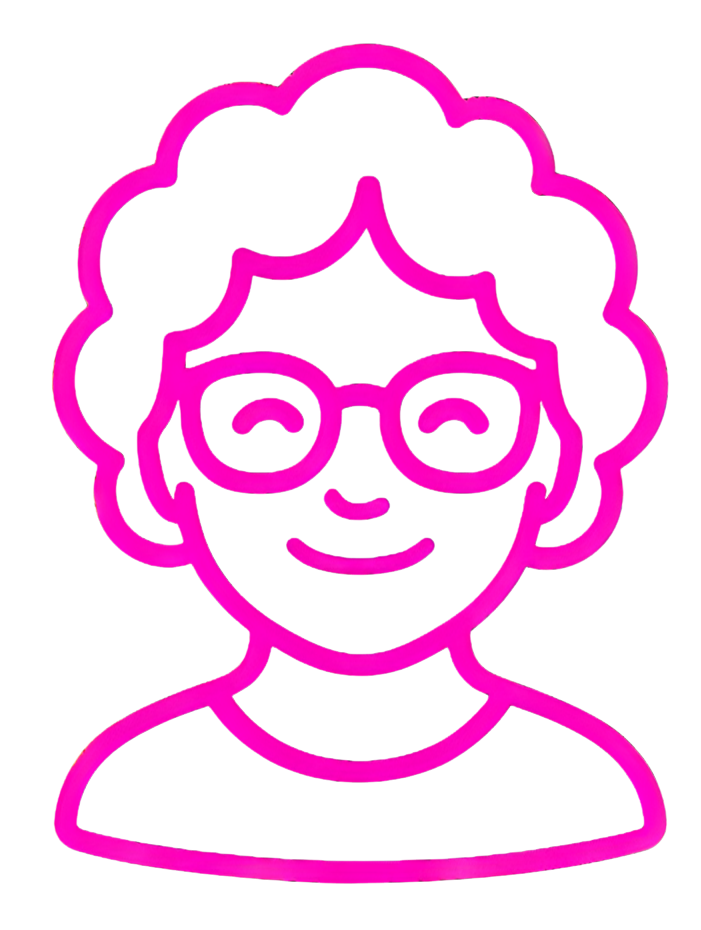
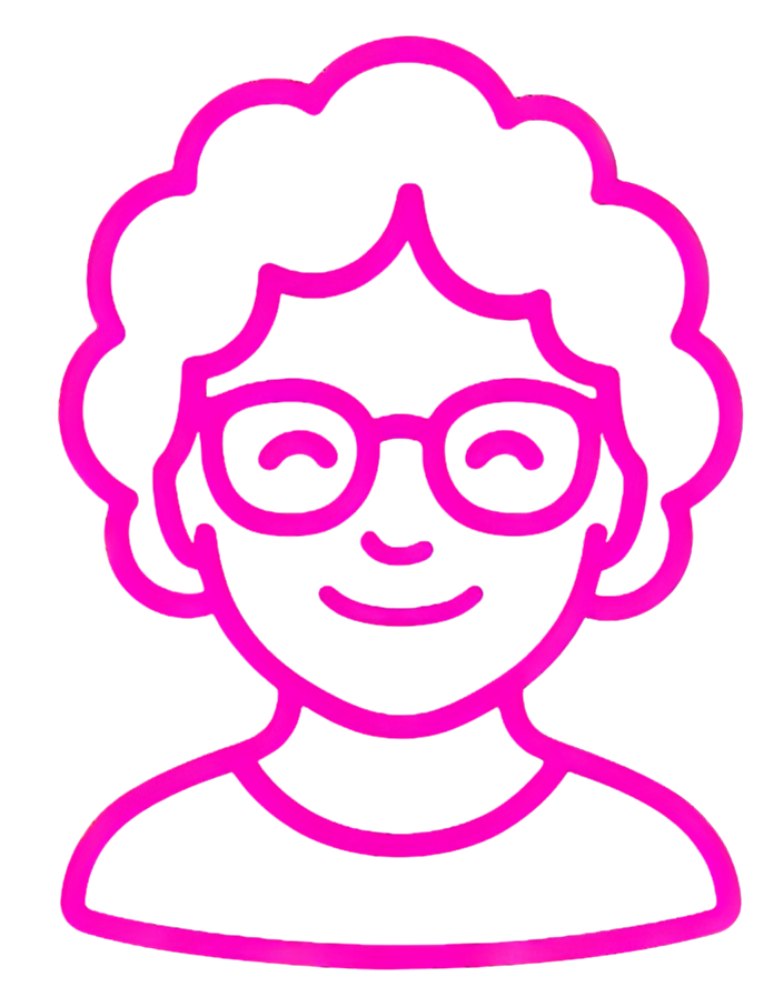
put savta back

diff --git a/pages/app/upload.vue b/pages/app/upload.vue
@@ -327,11 +327,11 @@ const loadRecentAssets = async () => {
     recentAssets.value = assets
   } catch (error) {
     toast.add({
-      severity: 'error',
-      summary: 'Error',
-      detail: 'Failed to load recent assets',
-      life: 3000
-    })
+        severity: 'error',
+        summary: 'Error',
+        detail: 'Failed to load recent assets',
+        life: 3000
+      })
   }
 }
 
@@ -353,11 +353,11 @@ const uploadFiles = async (files) => {
   for (const file of files) {
     if (file.size > 10 * 1024 * 1024) { // 10MB limit
       toast.add({
-        severity: 'error',
-        summary: 'File Too Large',
-        detail: `${file.name} is too large. Maximum size is 10MB.`,
-        life: 3000
-      })
+          severity: 'error',
+          summary: 'File Too Large',
+          detail: `${file.name} is too large. Maximum size is 10MB.`,
+          life: 3000
+        })
       continue
     }
 
@@ -397,11 +397,11 @@ const uploadFiles = async (files) => {
       uploadFile.processing = false
       
       toast.add({
-        severity: 'success',
-        summary: 'Upload Complete',
-        detail: `${file.name} uploaded and processed successfully`,
-        life: 3000
-      })
+          severity: 'success',
+          summary: 'Upload Complete',
+          detail: `${file.name} uploaded and processed successfully`,
+          life: 3000
+        })
       // Remove file from uploadingFiles immediately
       uploadingFiles.value = uploadingFiles.value.filter(f => f.id !== uploadFile.id)
       await loadRecentAssets()
@@ -412,11 +412,11 @@ const uploadFiles = async (files) => {
       uploadFile.processing = false
       
       toast.add({
-        severity: 'error',
-        summary: 'Upload Failed',
-        detail: `Failed to upload ${file.name}: ${error.message}`,
-        life: 3000
-      })
+          severity: 'error',
+          summary: 'Upload Failed',
+          detail: `Failed to upload ${file.name}: ${error.message}`,
+          life: 3000
+        })
       // Remove file from uploadingFiles immediately on error
       uploadingFiles.value = uploadingFiles.value.filter(f => f.id !== uploadFile.id)
     }
@@ -448,11 +448,11 @@ const submitTextStory = async () => {
     })
 
     toast.add({
-      severity: 'success',
-      summary: 'Story Shared',
-      detail: 'Your story has been uploaded and processed successfully',
-      life: 3000
-    })
+        severity: 'success',
+        summary: 'Story Shared',
+        detail: 'Your story has been uploaded and processed successfully',
+        life: 3000
+      })
 
     // Clear form and reload assets
     clearTextStory()
@@ -460,11 +460,11 @@ const submitTextStory = async () => {
 
   } catch (error) {
     toast.add({
-      severity: 'error',
-      summary: 'Upload Failed',
-      detail: 'Failed to upload your story',
-      life: 3000
-    })
+        severity: 'error',
+        summary: 'Upload Failed',
+        detail: 'Failed to upload your story',
+        life: 3000
+      })
   } finally {
     submittingStory.value = false
   }

diff --git a/components/SavtaIcon.vue b/components/SavtaIcon.vue
@@ -1,26 +1,9 @@
 <template>
-  <span :class="iconClass">
-    <svg viewBox="0 0 48 48" fill="none" xmlns="http://www.w3.org/2000/svg">
-      <circle cx="24" cy="24" r="20" fill="#FFF0F6" stroke="#E75480" stroke-width="3"/>
-      <!-- Curly Hair (series of small circles above the face) -->
-      <circle cx="16" cy="12" r="3" fill="#F8BBD0" stroke="#E75480" stroke-width="1.2"/>
-      <circle cx="24" cy="10" r="3.2" fill="#F8BBD0" stroke="#E75480" stroke-width="1.2"/>
-      <circle cx="32" cy="12" r="3" fill="#F8BBD0" stroke="#E75480" stroke-width="1.2"/>
-      <circle cx="20" cy="14" r="2.2" fill="#F8BBD0" stroke="#E75480" stroke-width="1.2"/>
-      <circle cx="28" cy="14" r="2.2" fill="#F8BBD0" stroke="#E75480" stroke-width="1.2"/>
-      <!-- Face -->
-      <ellipse cx="24" cy="26" rx="12" ry="11" fill="#FFF" stroke="#E75480" stroke-width="2"/>
-      <!-- Glasses -->
-      <circle cx="17" cy="27" r="4" fill="none" stroke="#E75480" stroke-width="2"/>
-      <circle cx="31" cy="27" r="4" fill="none" stroke="#E75480" stroke-width="2"/>
-      <rect x="21" y="26" width="6" height="2" fill="#E75480"/>
-      <!-- Eyes -->
-      <circle cx="17" cy="27" r="1.2" fill="#E75480"/>
-      <circle cx="31" cy="27" r="1.2" fill="#E75480"/>
-      <!-- Smile -->
-      <path d="M19 32 Q24 36 29 32" stroke="#E75480" stroke-width="2" fill="none"/>
-    </svg>
-  </span>
+  <img 
+    src="/savta-pink.png" 
+    alt="Savta AI Logo" 
+    :class="iconClass"
+  />
 </template>
 
 <script setup>
@@ -30,4 +13,8 @@ defineProps({
     default: ''
   }
 })
-</script> 
+</script>
+
+<style scoped>
+/* No extra styles needed for image */
+</style> 

diff --git a/pages/app/memory-books.vue b/pages/app/memory-books.vue
@@ -1025,11 +1025,11 @@ const viewBookDetails = async (book) => {
     // Small delay to ensure clean state
     await new Promise(resolve => setTimeout(resolve, 10))
     
-    selectedBook.value = book
-    showDetailsModal.value = true
-    
-    // Load asset thumbnails for this book
-    await loadAssetThumbnails(book)
+  selectedBook.value = book
+  showDetailsModal.value = true
+  
+  // Load asset thumbnails for this book
+  await loadAssetThumbnails(book)
   } catch (error) {
     console.error('Error viewing book details:', error)
     // Fallback: just show the modal without thumbnails
@@ -1093,11 +1093,11 @@ const loadAssetThumbnails = async (book) => {
     
     // Store thumbnails in reactive data
     if (bookAssets && Array.isArray(bookAssets)) {
-      bookAssets.forEach(asset => {
+    bookAssets.forEach(asset => {
         if (asset && asset.storage_url) {
-          assetThumbnails.value[asset.id] = asset.storage_url
-        }
-      })
+        assetThumbnails.value[asset.id] = asset.storage_url
+      }
+    })
     }
   } catch (error) {
     console.error('Error loading asset thumbnails:', error)

diff --git a/composables/useSupabase.js b/composables/useSupabase.js
@@ -6,12 +6,12 @@ let authListenerInitialized = false
 export function useSupabaseUser() {
   if (!authListenerInitialized) {
     try {
-      const supabase = useNuxtApp().$supabase
+    const supabase = useNuxtApp().$supabase
       
       // Get initial user
       const getUser = async () => {
         try {
-          const { data } = await supabase.auth.getUser()
+    const { data } = await supabase.auth.getUser()
           console.log('Getting user:', data.user?.email)
           globalUser.value = data.user
         } catch (error) {
@@ -39,4 +39,4 @@ export function useSupabaseUser() {
   }
   
   return globalUser
-}
+  }

diff --git a/layouts/default.vue b/layouts/default.vue
@@ -6,9 +6,9 @@
         <div class="flex items-center justify-between h-16">
           <!-- Logo -->
           <div class="flex items-center">
-            <NuxtLink to="/" class="flex items-center space-x-2">
-              <SavtaIcon class="w-8 h-8" />
-              <span class="text-xl font-bold text-gray-900">Savta</span>
+            <NuxtLink to="/" class="flex items-center space-x-4 no-underline">
+              <SavtaIcon class="h-10 w-auto" />
+              <span class="text-xl font-bold text-pink-500 no-underline">Savta</span>
             </NuxtLink>
           </div>
 

diff --git a/pages/app/signup.vue b/pages/app/signup.vue
@@ -171,7 +171,7 @@ const user = useSupabaseUser()
 // Redirect if already logged in
 watchEffect(() => {
   if (user.value) {
-    navigateTo('/app/dashboard')
+          navigateTo('/app/dashboard')
   }
 })
 
